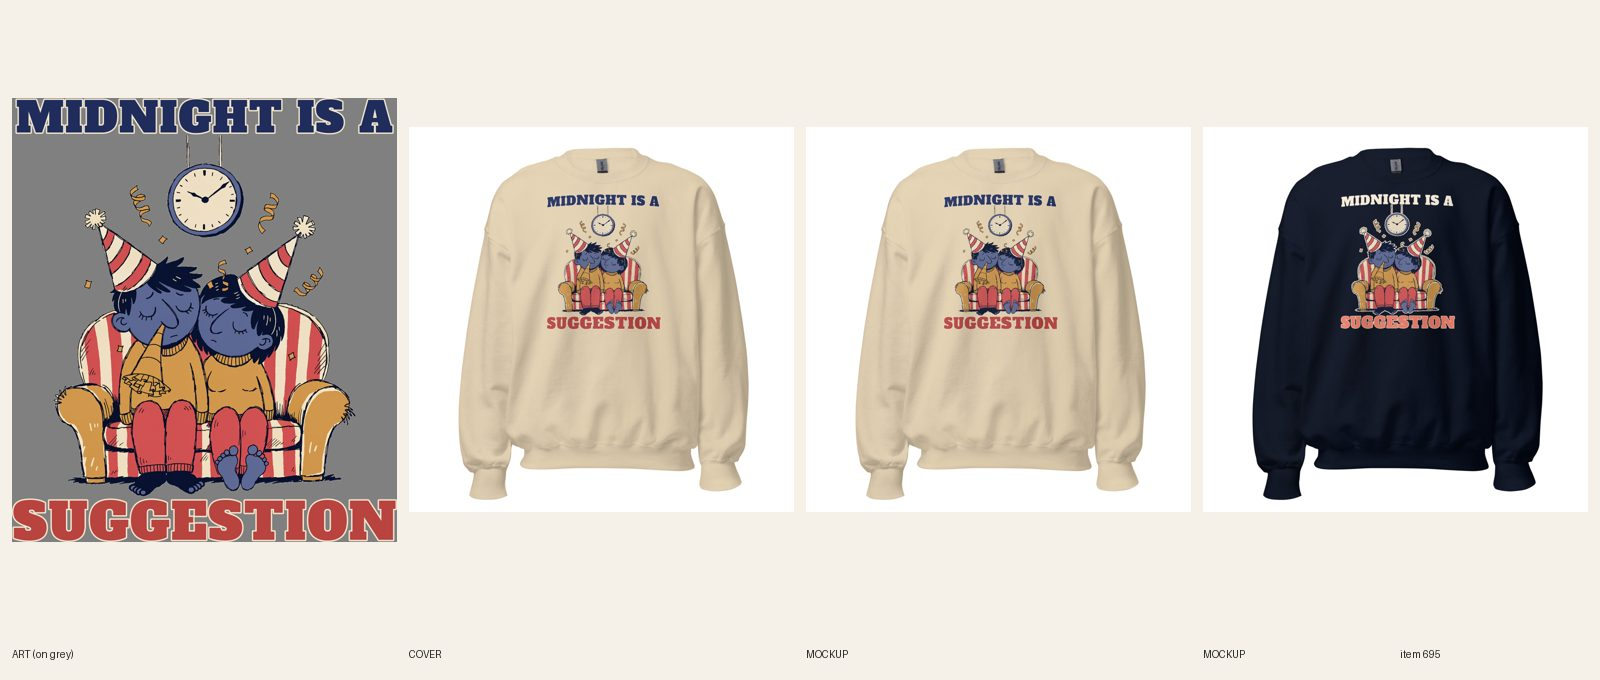
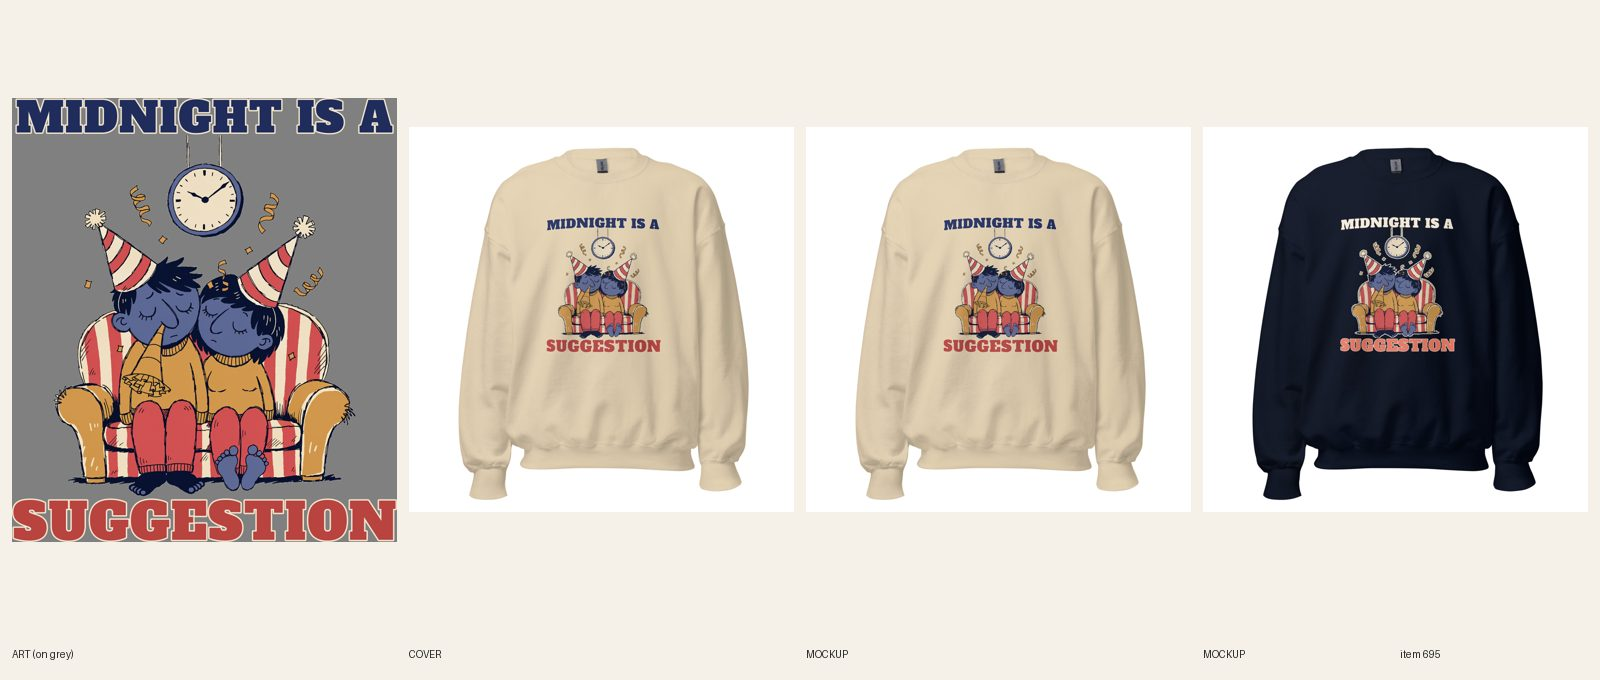
[B] review 695 696 re-placed TOP 400, release lock

Changed region(s): [[0.8125, 0.2779, 0.9062, 0.525], [0.3438, 0.2779, 0.4375, 0.525], [0.5938, 0.2779, 0.6562, 0.525]]

diff --git a/docs/pipeline/696-dance-mom-crewneck-bun-tight.md b/docs/pipeline/696-dance-mom-crewneck-bun-tight.md
@@ -1,4 +1,4 @@
-status: BUILDING [B] 17:36
+status: REVIEW
 lane: A
 type: twin
 id: 696
@@ -27,3 +27,4 @@ shopify: gid://shopify/Product/15369976578352
 - 2026-10-20 15:28 UTC builder [A]: BUILT (twin of LIVE #534 tee, DRAFT; plain product shot per R6.11, no AI cover). R6.2 check on the source print (#534 file 1088786002, 3389x3700): BUN TIGHT. / SMILE ON. and WALLET EMPTY. are real Fraunces 900 faces, no ring, panel or box behind the art; the tee was graded A and is LIVE, so the twin keeps its lockup unchanged (art subject 1786 px of 3389 = 53% of the width). Light-file split (R5.3.8): Sand on the tee's own file 1090412207 (dusty-rose headline with cream keyline, plum WALLET EMPTY.); Maroon on its own file 1090412221: headline recolored pale rose (246,203,212) with the cream keyline dropped so the counters stay open, WALLET EMPTY. recolored from plum to cream, art unchanged (its cream outline carries the linework on Maroon); read at phone size on the Maroon mockup. Widths (7h): headline 3351 px (BUN TIGHT.) / 2880 px (SMILE ON.), punch WALLET EMPTY. 3389 px, wider than the widest headline line. FW 1650 TOP 75. Maroon is S-2XL only (Gildan 18000 has no Maroon 3XL), so 11 variants: Sand S-3XL + Maroon S-2XL, $34.99, no compare-at, category aa-1-13-14, tags ai-art, graphic-sweatshirts, intake-done, sweatshirt (same as the live women's crewnecks; no tee tags). DRAFT gid://shopify/Product/15369976578352. Printful sync 483403172 verified below (Sand 6 on 1090412207, Maroon 5 on 1090412221, back logo 1080398177). Sand + Maroon fronts + Sand back attached, each front linked to its color's variants. Copy: line one carries the line + who + when, primary 'dance mom sweatshirt' (320 / KD 48) in line one, the SEO title and once in the meta, 3 uses, no 'one of the' opener; the size note says Maroon stops at 2XL; 5 FAQs at 46-60 words, women-size-down note, order-by Dec 8; ink named from the mockups. Keyword map updated; #534's copy has no 'dance mom sweatshirt'. fal $0.
 - 2026-10-20 20:40 UTC director: APPROVED on docs/review/696.jpg (WALLET EMPTY. is the widest line under BUN TIGHT. SMILE ON., dark plum on Sand, cream on Maroon); side by side with 493 Calm Face and 483 Sisyphus: heavy lockup in art colors, punch at least as wide as the headline, so at least the bar. Held at REVIEW: the 6-LIVE cap was used on mugs this run.
 - 2026-11-02 14:32 UTC director: REDO (placement only; art, line and copy approval stands). 1. R11.15 held-approval re-check / builder 7m (Sam 2026-10-22, never print a hoodie or sweatshirt high under the collar): the log places the front print at TOP 75 (about half an inch under the collar), the same problem the camo and TOP-0 hoodie redos fix. Re-place the same file at TOP 400 (center chest; keep FW 1500+ if the art height fits the area, otherwise reshape the art per R5.3.2, never shrink below FW 1500), re-sync and verify every variant's file (R7.7), make new front mockups, put the printed front first (R6.13), remake docs/review/696.jpg. $0 fal. Then back to REVIEW.
+- 2026-11-02 17:41 UTC builder [B]: REDO placement done in place (same files, no new art, fal $0): FW 1650 TOP 400 (print 1801 px tall, ends at 2201 of 2400). Re-synced 11/11 (Sand 6 on 1090412207, Maroon 5 on 1090412221), back logo kept. New Sand and Maroon front mockups replace the old images in place (alts unchanged, front first). Sheet docs/review/696.jpg remade. Product still DRAFT.

diff --git a/docs/pipeline/695-nye-crewneck-midnight-is-a-suggestion.md b/docs/pipeline/695-nye-crewneck-midnight-is-a-suggestion.md
@@ -1,4 +1,4 @@
-status: BUILDING [B] 17:36
+status: REVIEW
 lane: A
 type: twin
 id: 695
@@ -27,3 +27,4 @@ shopify: gid://shopify/Product/15369811329328
 - 2026-10-20 13:36 UTC builder [A]: BUILT (twin of LIVE #331 tee, DRAFT; plain product shot per R6.11, no AI cover). R6.2 check on source print (Printful file 1088529018, 3424x3939): MIDNIGHT IS A / SUGGESTION are heavy real-font lines at full width, no ring, disc, box or panel; the tee is graded A and LIVE, so the twin keeps its lockup, with the headline scaled to 0.975 so the punch is wider (7h). Widths (7h): Sand file headline 3338 px, punch 3397 px (art width); Navy file headline 3314 px, punch 3397 px. Light-file split (R5.3.8): Sand on its own dark-ink file 1090383691 (original colors); Navy on file 1090383703 (headline cream, SUGGESTION coral, cream outline around the art). Read at phone size on both mockups. FW 1650 TOP 75. DRAFT gid://shopify/Product/15369811329328 (Gildan 18000, Sand/Navy x S-3XL = 12, $34.99, no compare-at, category aa-1-13-14, tags sweatshirt, new-years, ai-art, intake-done). Printful sync 483390924; default file checked on every variant (Sand 6 on 1090383691, Navy 6 on 1090383703, back logo 1080398177). Sand and Navy fronts + Sand back attached and linked to variants. Primary 'new years sweatshirt' (480 / KD 46, Dec 5,400 surge) in line one; supporting 'new years eve sweatshirt' once. Keyword map updated. fal $0.
 - 2026-10-20 14:40 UTC director: approved from docs/review/695.jpg, held at REVIEW (6-LIVE cap; still DRAFT). Side by side with 493 and 483: twin of A-grade #331, MIDNIGHT IS A / SUGGESTION full width, navy headline on Sand and cream on Navy, the dozing couple in party hats reads in 3 seconds.
 - 2026-11-02 14:32 UTC director: REDO (placement only; art, line and copy approval stands). 1. R11.15 held-approval re-check / builder 7m (Sam 2026-10-22, never print a hoodie or sweatshirt high under the collar): the log places the front print at TOP 75 (about half an inch under the collar), the same problem the camo and TOP-0 hoodie redos fix. Re-place the same file at TOP 400 (center chest; keep FW 1500+ if the art height fits the area, otherwise reshape the art per R5.3.2, never shrink below FW 1500), re-sync and verify every variant's file (R7.7), make new front mockups, put the printed front first (R6.13), remake docs/review/695.jpg. $0 fal. Then back to REVIEW.
+- 2026-11-02 17:41 UTC builder [B]: REDO placement done in place (same files, no new art, fal $0): FW 1650 TOP 400 (print 1902 px tall, ends at 2302 of 2400 px area). Re-synced 12/12 (Sand 6 on 1090383691, Navy 6 on 1090383703), back logo kept. New Sand and Navy front mockups replace the old images in place (fileUpdate, alts unchanged, front first). Sheet docs/review/695.jpg remade. Product still DRAFT.

diff --git a/docs/intake-log.md b/docs/intake-log.md
@@ -1,4 +1,4 @@
-RUNNING lane B since 2026-11-02 17:36 UTC
+2026-11-02 17:41 UTC — [B] Builder run end: 2 placement REDOs, #695 and #696 crewnecks re-placed FW1650 TOP400, back to REVIEW (DRAFT, fal $0). New products today: 0 of 6. Lock released. Note: writing the fal key to ~/.config/fal was blocked by the sandbox classifier; not needed for these jobs.
 2026-11-02 15:32 UTC — [H] Helper run: Telegram inbox empty (getUpdates returned 0 updates; nothing to consume). Shopify: 0 orders since 23:50 UTC Nov 1 (list-orders returned none), so no order alert and no Printful hold check. Audit 780 products: 0 errors, 488 warnings left alone; committed docs/cohesion-audit.md and .json (npm install first: the tracked node_modules symlink was broken; restored after). Category check: 0 products without a Shopify category (no mutation). Price errors 0, announcement bar already on the holiday line. Site check: womens-owl-night-owl-retired, womens-strawberry-please-dont-pick-me and womens-y2k-gold-star zip hoodies all 200; homepage 200. Stuck work: no pipeline item at BUILDING; no lane lock held. Daily summary sent on Telegram (first run after 12:00 UTC). Lock released.
 2026-11-02 14:46 UTC — [D] Director run: inbox nothing new (Sam's 10-29 'centered and justified' photo still open, not asked again). No new review sheets; R11.15 re-check of the held approvals: 6 zip twins pass (back print on the upper back, zip front is the stitched mark) and went LIVE for the Nov 2 Chicago day (cap reached): #920 Night Owl, Retired, #921 Please Don't Pick Me, #922 Gold Star for Leaving the House, #925 Horse Girl, Broke on Purpose, #934 No, I Won't Make You One., #941 Expert in Après (Story line one: dropped beanie/jacket colors the art doesn't show). All ACTIVE + Online Store, Headless, Google & YouTube; audit --handle PASS (1 warn each: no lifestyle cover); ran nightly-rebuild by hand, all 6 pages and /hoodies/zip-up-hoodies/ 200 at 14:44. Zip-ups 74 live, camo 38 (#968/#969 READY take it to 40). 5 held approvals at TOP 75 sent back as placement-only REDO (#652 #695 #696 #704 #722, builder 7m); builder 7m now says TOP 75 is too high. Still held: #590 #594 #595 #597 #602 #603 #827 #910 (approved, next cap days) and Hanukkah #457/#458 (Sam). No new briefs: 52 READY, over the 6-12 target. Telegram: digest sent (said 5 held approvals waiting; it is 8). Lock released.
 2026-11-02 14:10 UTC — [B] Builder run end: 2 in-place fixes (TOP-0 hoodie job 7m2: Leg Day Survivor, Slurp Responsibly). No new builds: fal wallet spent, remaining READY items are multi-hour or need fal. New products today: 0 of 6. Lock released.
